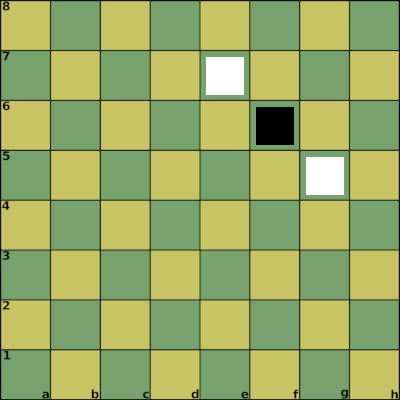
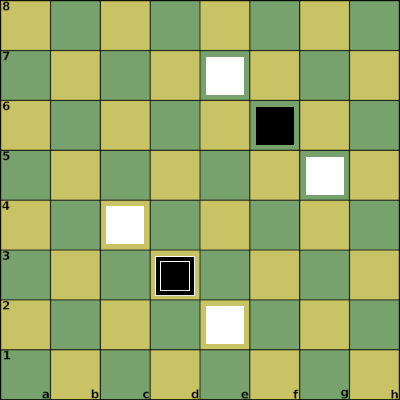
Update Tomis manual

Changed region(s): [[0.51, 0.75, 0.63, 0.87], [0.39, 0.63, 0.51, 0.75], [0.24, 0.51, 0.36, 0.63]]

diff --git a/TomisBoardGameManual.md b/TomisBoardGameManual.md
@@ -61,7 +61,9 @@ A standard chess board (8x8).
 
 ### The battle environment
 
-A maximum of three pawns can be placed on top of each other anywhere on the board.
+A maximum of three pawns can be placed on top of each other anywhere on the board,
+
+strictly in order of size from bottom to top: Large, Medium, Small
 
 Think of the environment as three boards stacked on top of each other.
 
@@ -170,7 +172,7 @@ Each player decides at the beginning where their king will be located and keeps 
 
 The chosen location can be anywhere on the 3 boards, use the game notation.
 
-Each player will write the position on a piece of paper.
+Each player will write the position on a piece of paper or electronic means.
 
 When a player places a pawn on the king's position, the king will be revealed.
 
@@ -239,10 +241,10 @@ There are 2 types of linking:
   | Position | Attack Points | Defense Points |
   | :--- | :--- | :--- |
   | e3_1 | 1 | 5 |
-  | d4_1 | 1 | 2 |
-  | f4_1 | 1 | 2 |
-  | f2_1 | 1 | 2 |
-  | d2_1 | 1 | 2 |
+  | e4_1 | 1 | 2 |
+  | f3_1 | 1 | 2 |
+  | e2_1 | 1 | 2 |
+  | d3_1 | 1 | 2 |
 
 ## The rules of defending
 
@@ -266,9 +268,9 @@ Examples:
   | :--- | :--- | :--- |
   | f3_2 | 1 | 1 |
   | g2_2 | 1 | 1 |
-  | h1_2 | 1 | 1 |
+  | h3_2 | 1 | 1 |
 
-  h1_2 -> g2_2 : attack successful (2 vs 1)
+  h3_2 -> g2_2 : attack successful (2 vs 1)
 
 * Case 2
 
@@ -278,7 +280,7 @@ Examples:
   | d3_1 | 1 | 2 |
   | c3_1 | 1 | 2 |
 
-  d2_1 -> d3_1 : failed attack (1 vs 2)
+  d2_1 -> c3_1 : failed attack (1 vs 2)
 
 
 ![Rules of defending 2](imgs/RulesOfDefending2.png)
@@ -287,11 +289,10 @@ Examples:
 
   | Position | Attack Points | Defense Points |
   | :--- | :--- | :--- |
-  | a1_3 | 1 | 1 |
-  | b1_3 | 2 | 1 |
-  | a2_3 | 2 | 1 |
+  | b2_3 | 1 | 1 |
+  | c3_3 | 1 | 1 |
 
-  a1_3 -> b1_3 : failed attack (1 vs 1)
+  b2_3 -> c3_3 : failed attack (1 vs 1)
 
 * Case 2
 
@@ -328,7 +329,30 @@ If you make a mistake and make an unsuccessful attack, the turn will change.
 
 Examples:
 
-![Rules of attacking 1](imgs/RulesOfAttacking1.png)
+![Rules of attacking 1](imgs/RulesOfAttacking2.png)
+
+* Case 1
+
+  | Position | Attack Points | Defense Points |
+  | :--- | :--- | :--- |
+  | b2_3 | 1 | 1 |
+  | c3_3 | 2 | 1 |
+  | d2_3 | 2 | 1 |
+
+  c3_3 -> b2_3 : successful attack (2 vs 1)
+
+* Case 2
+
+  | Position | Attack Points | Defense Points |
+  | :--- | :--- | :--- |
+  | a8_2 | 1 | 1 |
+  | c8_2 | 2 | 1 |
+  | b7_2 | 3 | 1 |
+  | c6_2 | 2 | 1 |
+
+  b7_2 -> a8_2 : successful attack (3 vs 1)
+
+![Rules of attacking 2](imgs/RulesOfAttacking1.png)
 
 * Case 1
 
@@ -351,30 +375,7 @@ Examples:
   | c3_1 | 1 | 3 |
   | c4_1 | 2 | 2 |
 
-  d3_1 -> d2_1 : successful attack (2 vs 1)
-
-![Rules of attacking 2](imgs/RulesOfAttacking2.png)
-
-* Case 1
-
-  | Position | Attack Points | Defense Points |
-  | :--- | :--- | :--- |
-  | a1_3 | 1 | 1 |
-  | b1_3 | 2 | 1 |
-  | a2_3 | 2 | 1 |
-
-  b1_3 -> a1_3 : successful attack (2 vs 1)
-
-* Case 2
-
-  | Position | Attack Points | Defense Points |
-  | :--- | :--- | :--- |
-  | a8_2 | 1 | 1 |
-  | c8_2 | 2 | 1 |
-  | b7_2 | 3 | 1 |
-  | c6_2 | 2 | 1 |
-
-  b7_2 -> a8_2 : successful attack (3 vs 1)
+  d2_1 -> c3_1 : failed attack (1 vs 3)
 
 ### The ambush
 
@@ -390,15 +391,26 @@ In this case the ambush will fail and the +1 bonus doesnt apply anymore.
 
 ![Ambush example](imgs/AmbushExample.png)
 
-* Case 1
+* Case 1 (successful ambush)
 
   | Position | Attack Points | Defense Points |
   | :--- | :--- | :--- |
-  | e7_1 | 1 | 1 |
+  | e7_1 | 1 (+1 bonus) | 1 |
   | f6_1 | 1 | 1 |
   | g5_1 | 1 | 1 |
 
-  e7_1 -> f6_1 : successful attack (3 vs 1) 
+  e7_1 -> f6_1 : successful attack (3 vs 1)
+
+* Case 2 (ambush prevented)
+
+  | Position | Attack Points | Defense Points |
+  | :--- | :--- | :--- |
+  | c4_1 | 1 | 1 |
+  | d3_1 | 2 | 2 |
+  | e2_1 | 1 | 1 |
+  | d3_2 | 2 | 2 |
+
+  e2_1 -> d3_1 : failed attack (2 vs 2)
 
 ## The rules of stacking
 
@@ -435,11 +447,16 @@ Example:
 
 ![Stacks](imgs/BoardEndgame.png)
 
-* Notation
+  | Position | Attack Points | Defense Points |
+  | :--- | :--- | :--- |
+  | K_f6_1 | 0 | 1 |
+  | e6_1   | 1 | 1 |
+  | g5_1   | 2 | 1 |
+  | h6_1   | 2 | 1 |
 
-1. K_f6_1 2. g6_1 -> f6_1 3. -K_f6_1
+  g5_1 -> f6_1 : successfull attack (2 vs 1)
 
-Black king is revealed and then captured, game is over. 
+  Black king is revealed and then captured, game is over.
 
 ## Credits, contact
 
